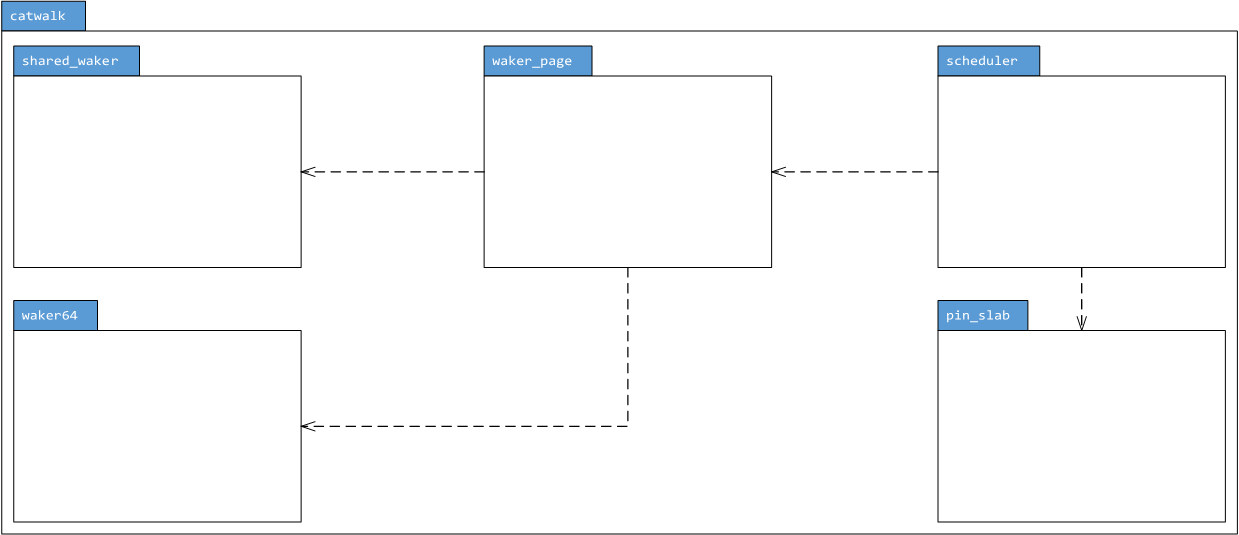
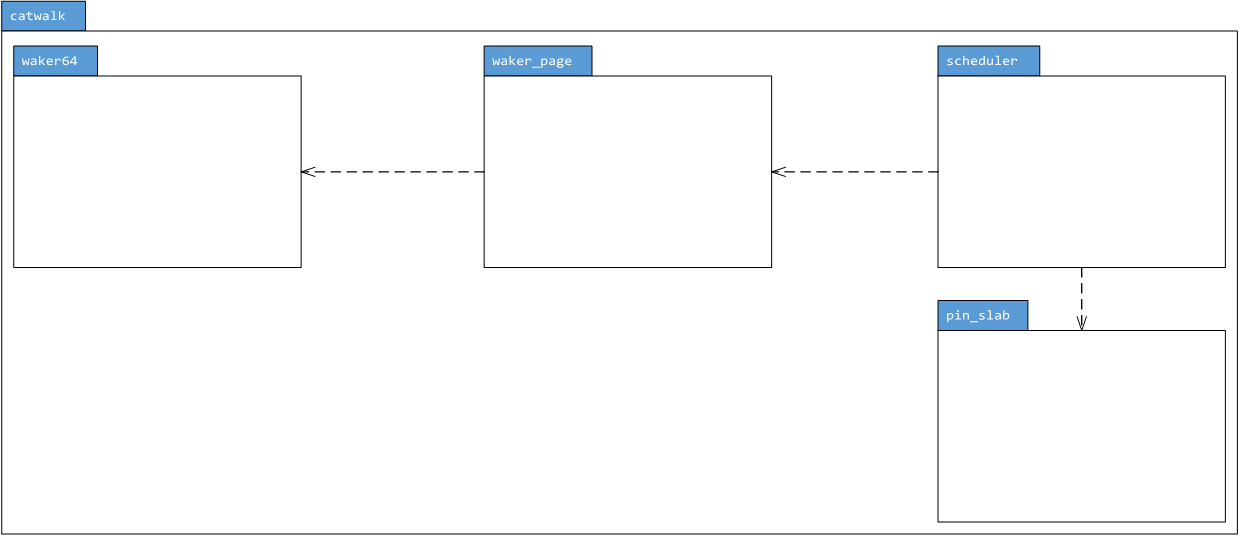
[doc] Enhancement: Updating UML Diagrams

diff --git a/etc/README.md b/etc/README.md
@@ -4,7 +4,6 @@ Architectural Diagrams
 - [Package Overview (`catwalk`)](#package-overview)
 - [64-Bit Waker Module (`catwalk::waker64`)](#64-bit-waker-module)
 - [Pinned Slab Module (`catwalk::pin_slab`)](#pinned-slab-module)
-- [Shared Waker Module (`catwalk::shared_waker`)](#shared-waker-module)
 - [Waker Page Module (`catwalk::waker_page`)](#waker-page-module)
 - [Scheduler Module (`catwalk::scheduler`)](#scheduler-module)
 
@@ -19,10 +18,6 @@ Package Overview
 Pinned Slab Module
 -------------
 ![Pinned Slab Module](./img/catwalk-pin_slab.png)
-
-Shared Waker Module
---------------
-![Shared Waker Module](./img/catwalk-shared_waker.png)
 
 Waker Page Module
 ---------------
